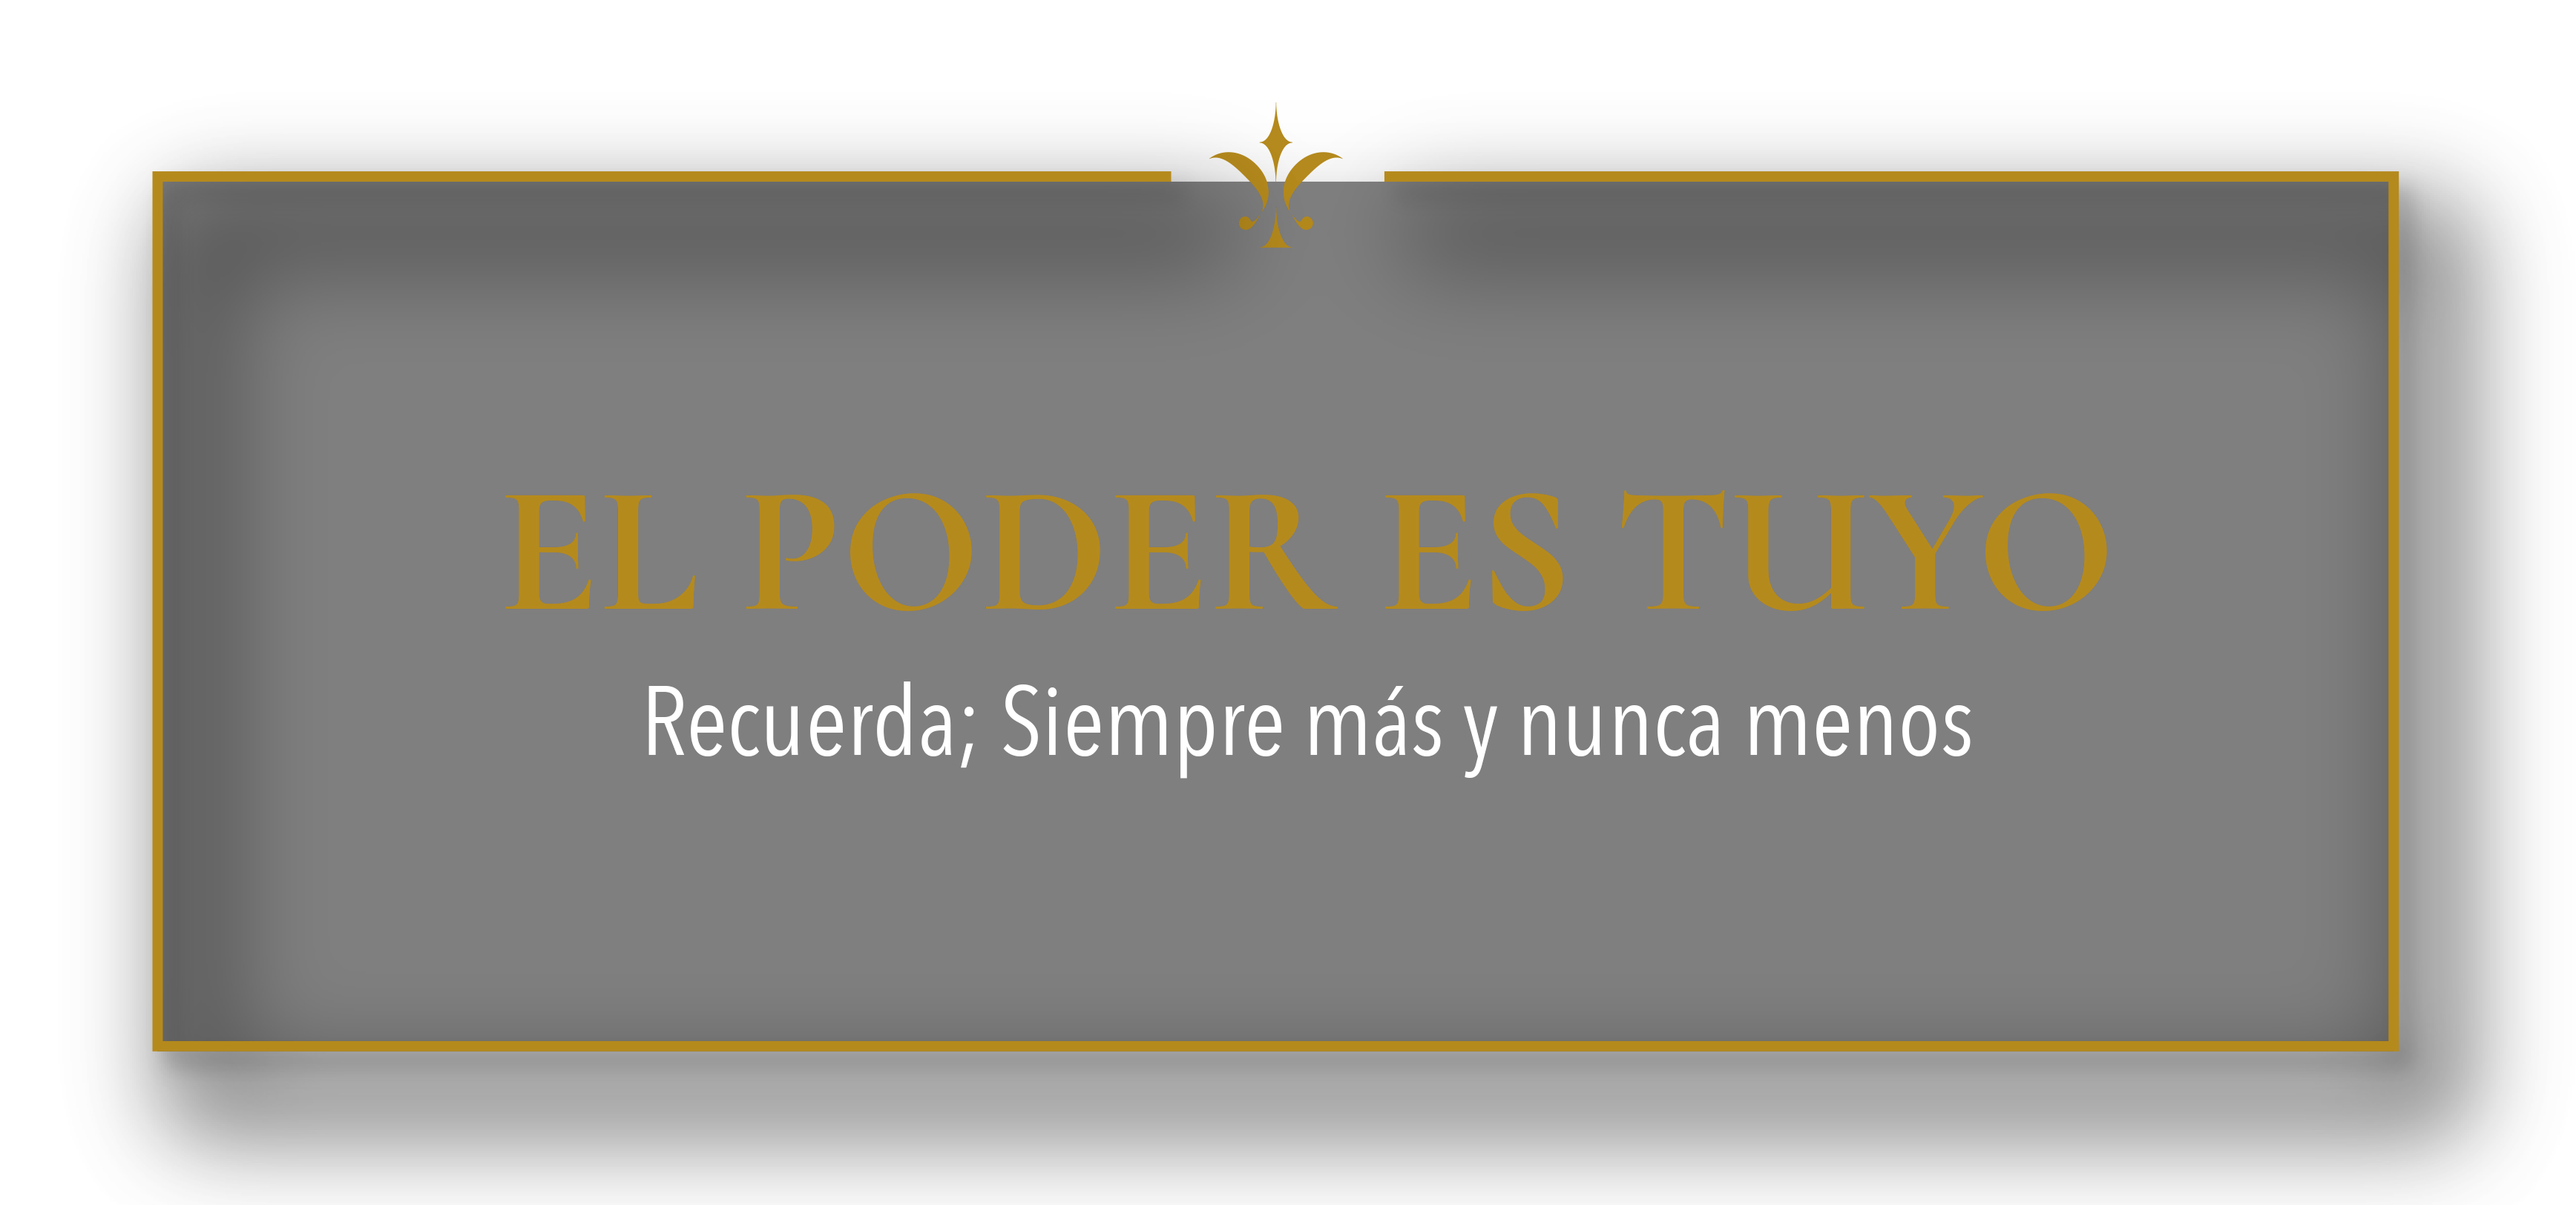
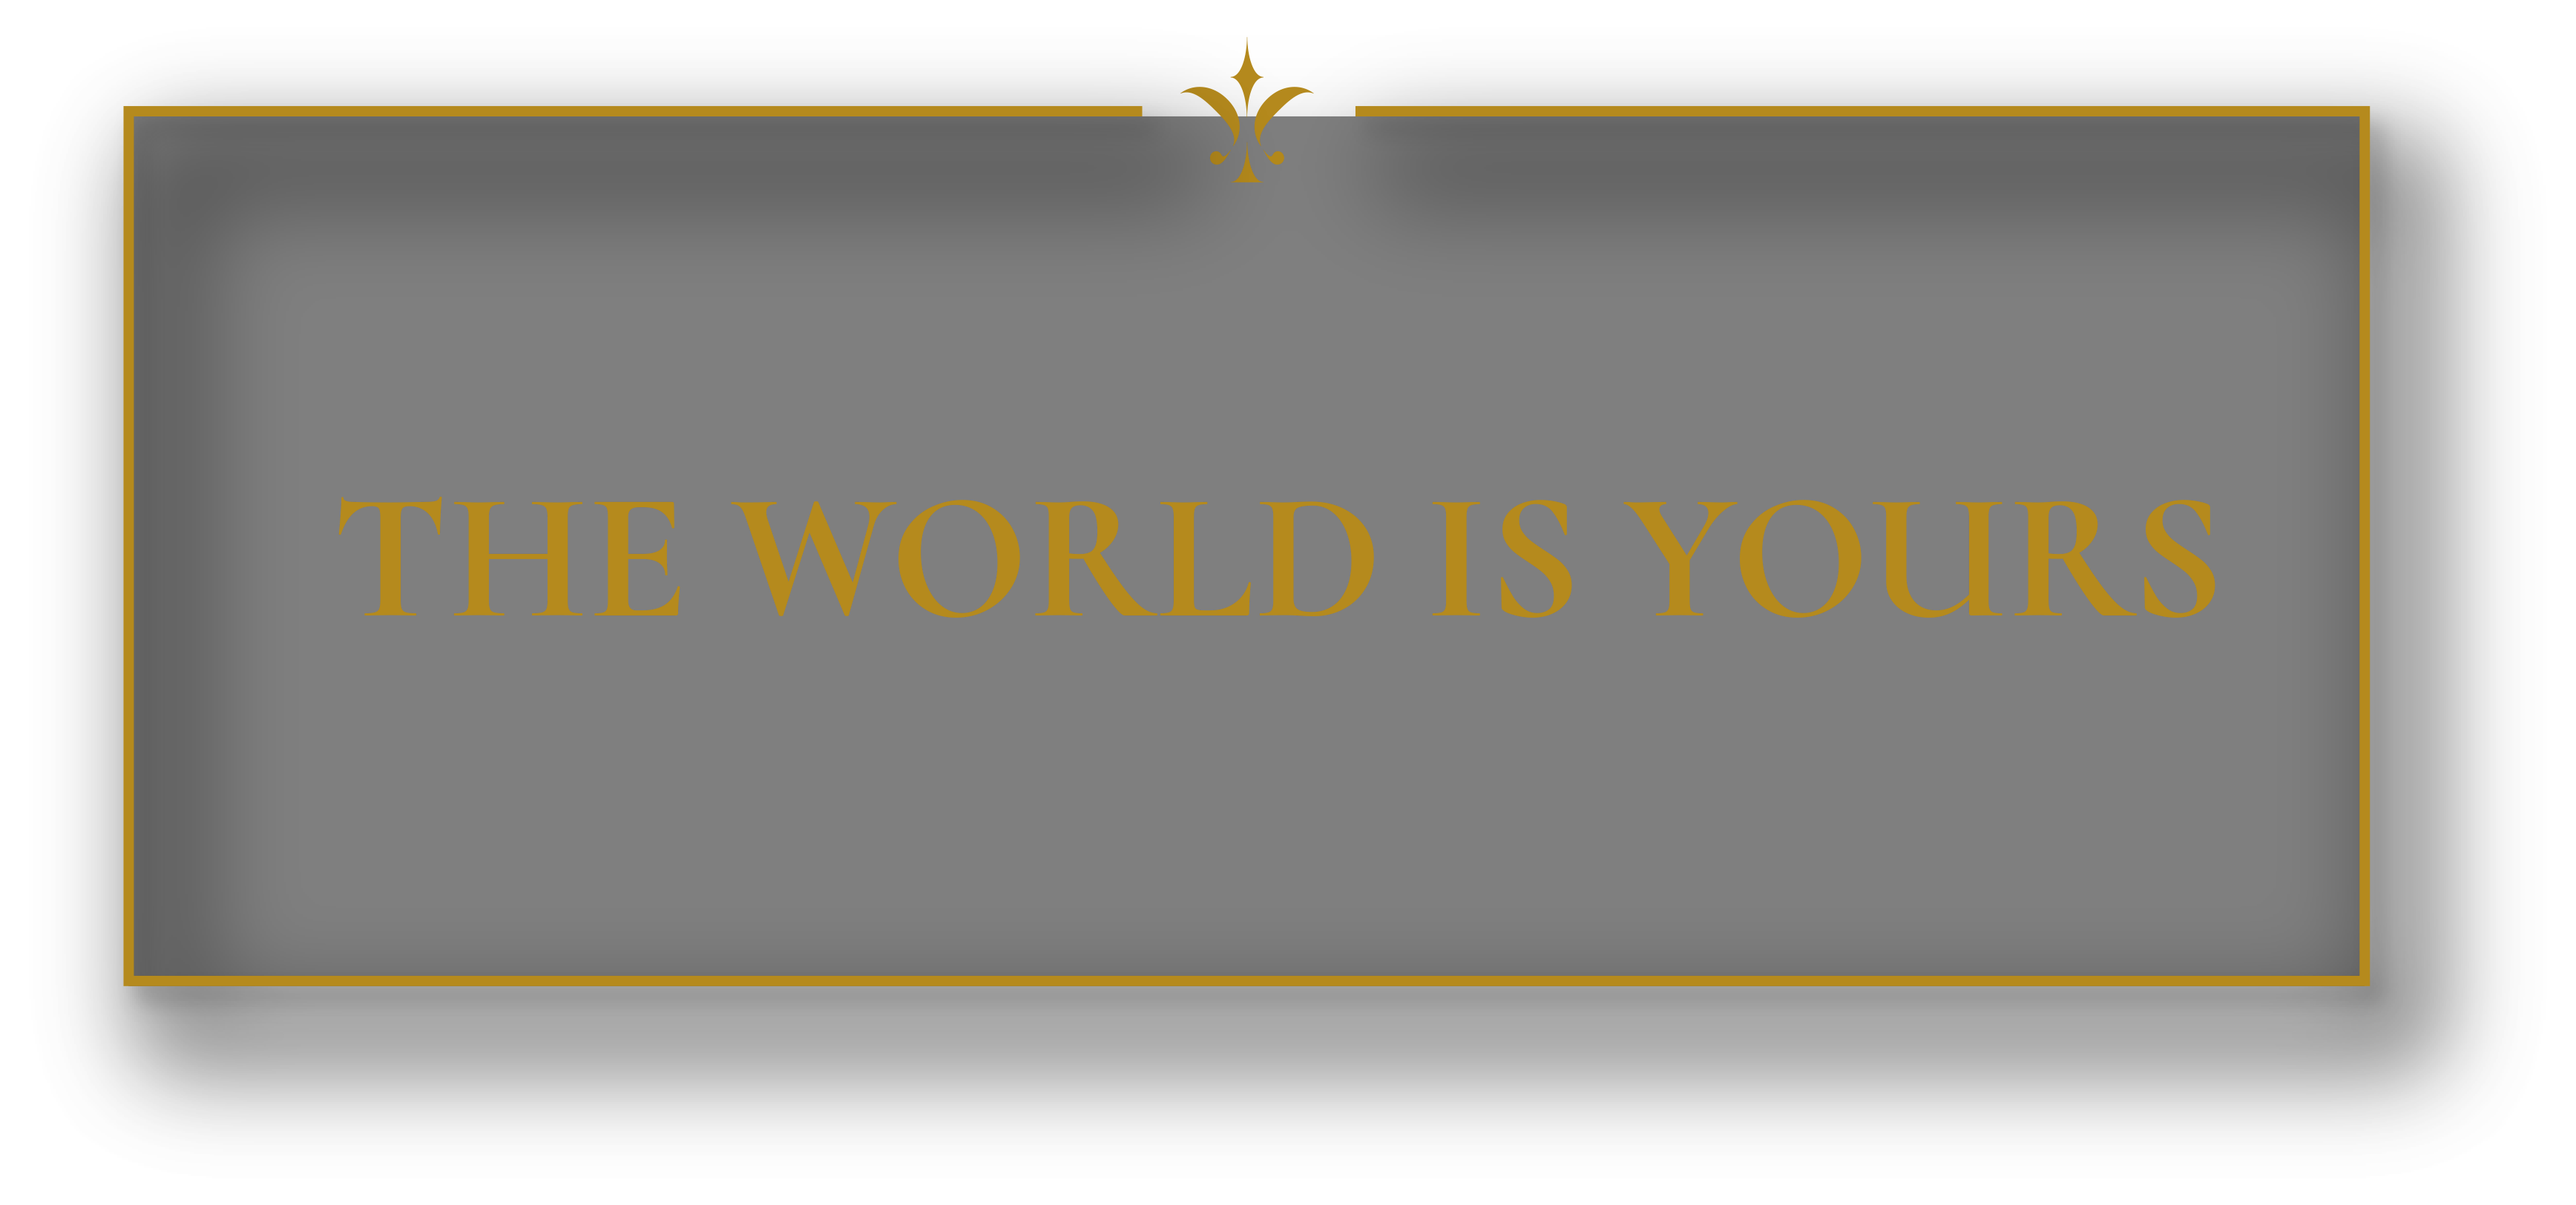
change images

diff --git a/resources/views/diseño/objetivo.blade.php b/resources/views/diseño/objetivo.blade.php
@@ -213,7 +213,7 @@
         </div>
     </div>
 </div>
-<div class="row mt-4" style="text-align:center">
+{{-- <div class="row mt-4" style="text-align:center">
     <div class="col-md-2"></div>
     <div class="col-md-8">
         <h5 style="font-family:Cooper;">
@@ -222,8 +222,8 @@
             Felicidades por los logros conseguidos y a seguir por los que faltan.</h5>
     </div>
     <div class="col-md-2"></div>
-</div>
-<div class="row mt-5" id="fondo8" style="text-align:center">
+</div> --}}
+<div class="row" id="fondo8" style="text-align:center">
     <div class="row mb-5 d-flex" >
         <div class="col-12">
             <img src='{{asset("images/poder.png")}}' class="img-fluid">
